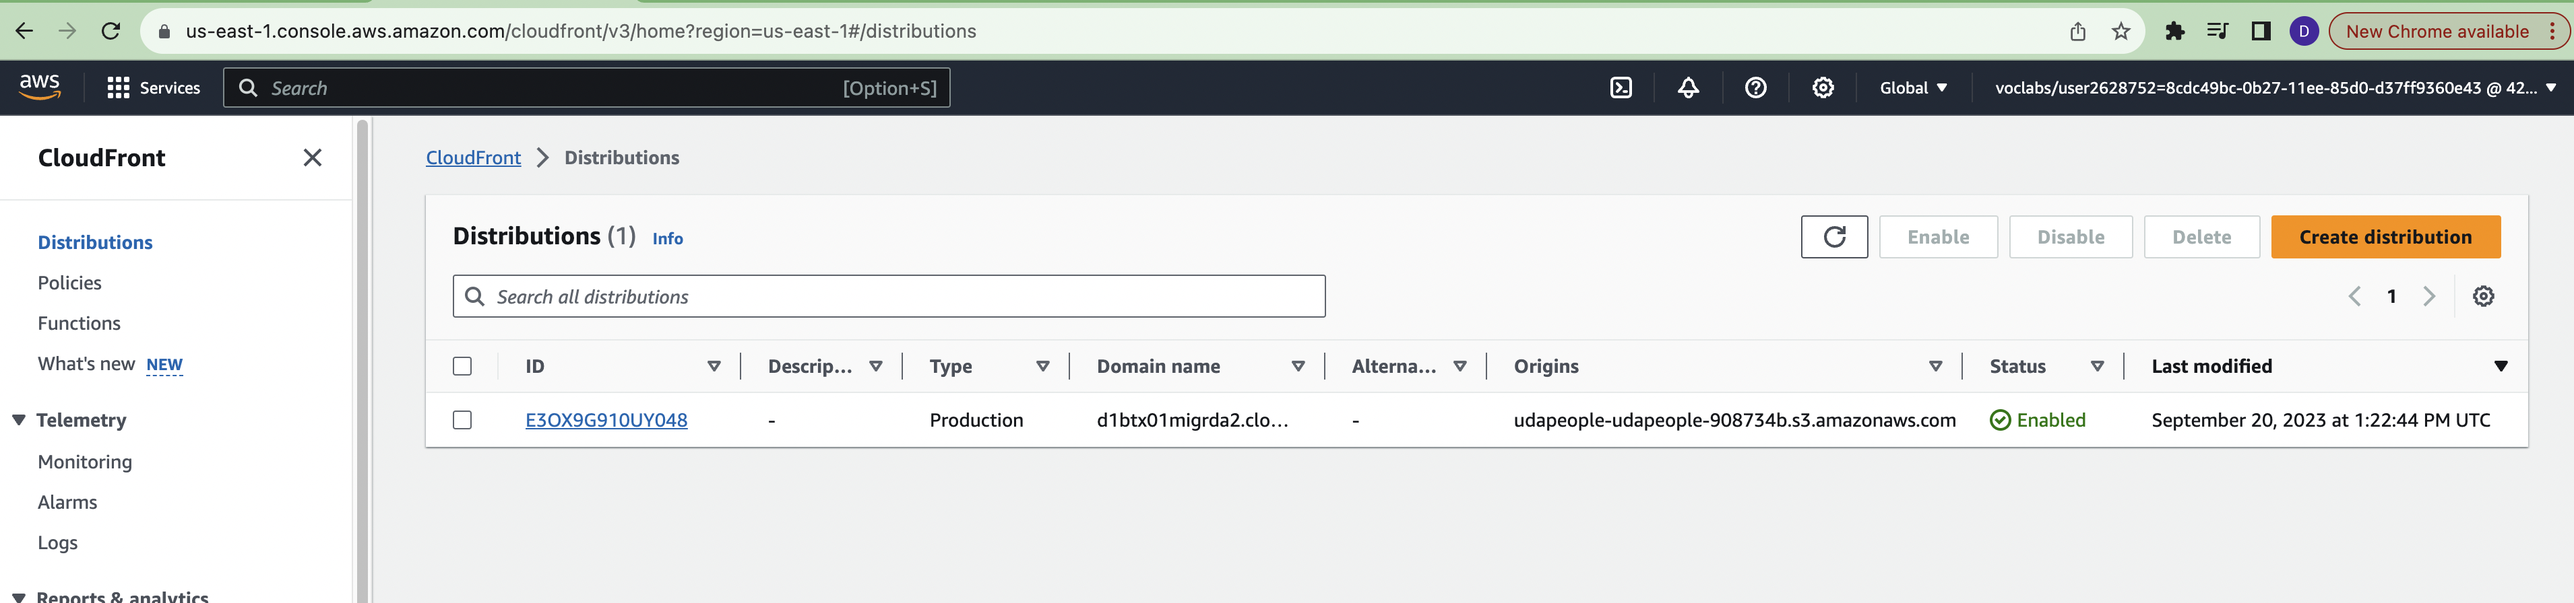
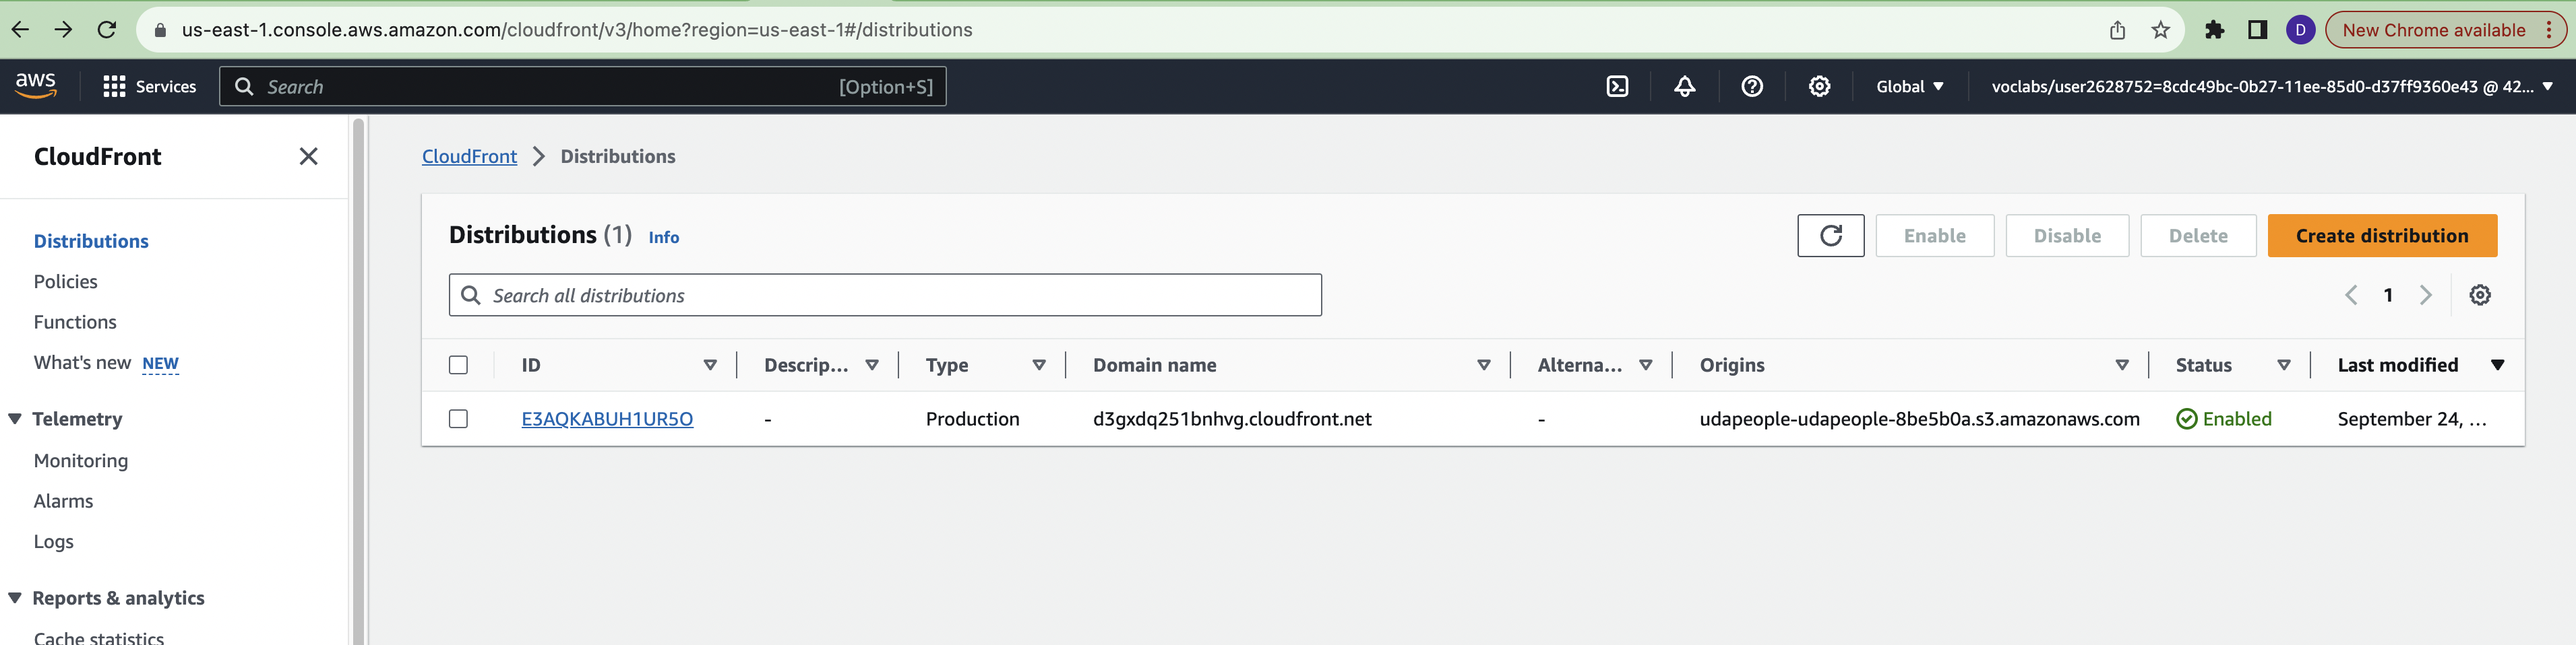
add job Cleanup

diff --git a/urls.md b/urls.md
@@ -1,6 +1,6 @@
 - A text file named `urls.txt` including:
   1. Public Url to GitHub repository (not private) [https://github.com/trind2002/project3-udapeople]
-  1. Public URL for your S3 Bucket (aka, your green candidate front-end) [URL02]
-  1. Public URL for your CloudFront distribution (aka, your blue production front-end) [URL03]
-  1. Public URLs to deployed application back-end in EC2 [URL04]
+  1. Public URL for your S3 Bucket (aka, your green candidate front-end) [http://udapeople-8be5b0a.s3-website-us-east-1.amazonaws.com/]
+  1. Public URL for your CloudFront distribution (aka, your blue production front-end) [http://d3gxdq251bnhvg.cloudfront.net]
+  1. Public URLs to deployed application back-end in EC2 [http://44.211.248.170:3030/api/status]
   1. Public URL to your Prometheus Server [URL05]
